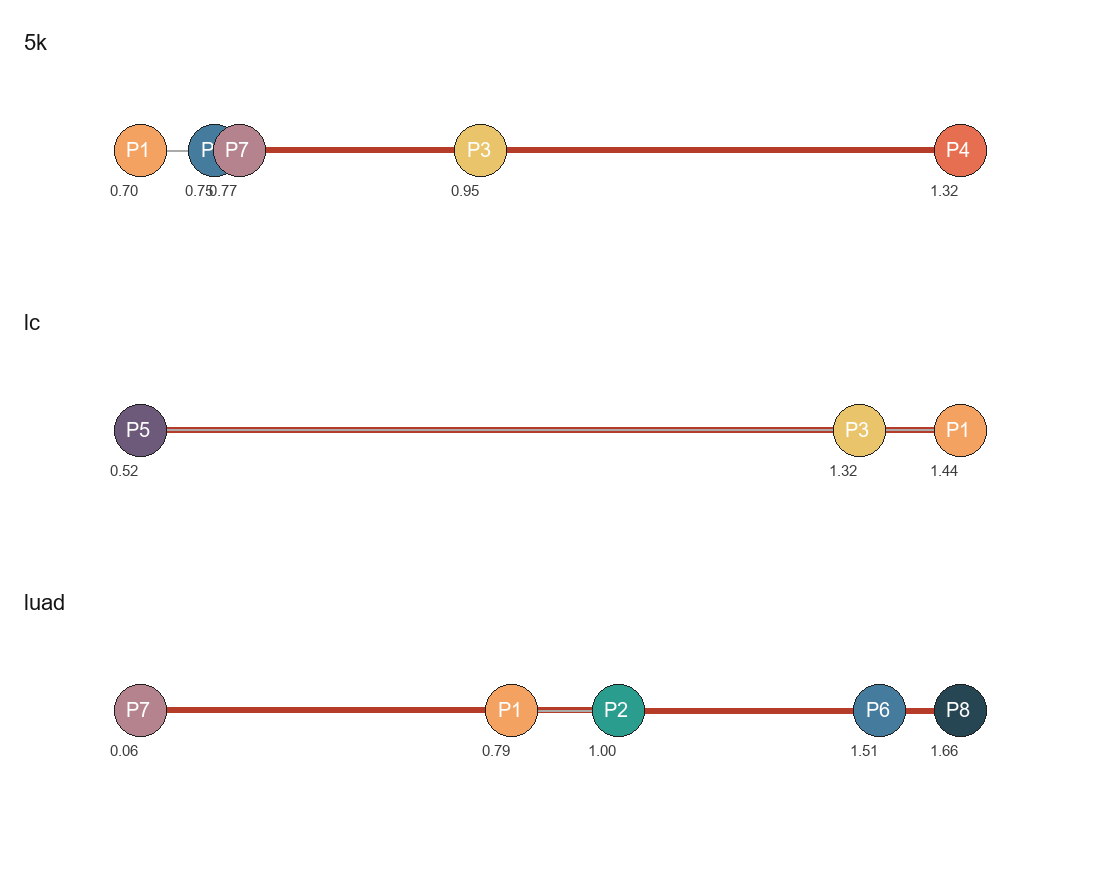
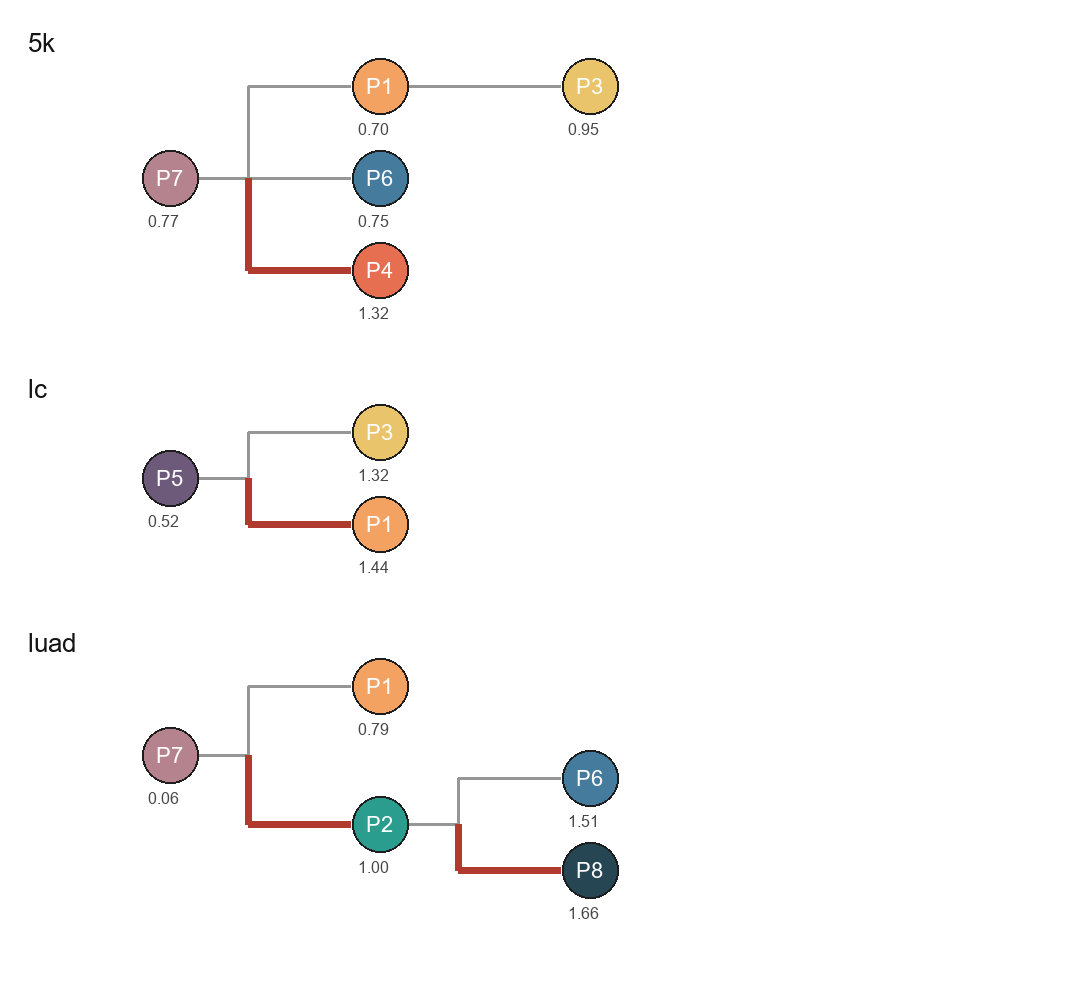
Draw a rooted evolutionary tree for each slice.
The red branch is the one played in the evolution video, and the three donors stay on separate trees.

diff --git a/docs/index.html b/docs/index.html
@@ -81,12 +81,13 @@
 <p>近景是把玻璃盒里的球放大。每一格是该模式这块组织里半径最大的一颗细胞，再加上离它最近的两颗。位置是 Xenium 质心，大小是按细胞类型给定的半径。外层是半透明的膜，里面是细胞质和核，颜色收成紫红色，用来接近合成细胞图的近景。膜上的起伏是渲染时加上的，不是从 H&amp;E 描出来的细胞边界。</p>
 <img src="figures/blender_closeup.png" alt="八个模式的细胞近景">
 
-<h2><span class="step">模式之间的顺序</span></h2>
+<h2><span class="step">模式之间的进化</span></h2>
 <p>这里没有剪接和未剪接的计数，所以没有做 RegVelo 的 RNA velocity。每张切片单独做空间拟时序，做法对应 Pham 等人 2023 年 Nature Communications 里的 pseudo-time-space：只有边相邻的小窗才能连一步，这一步的代价是小窗特征的距离。特征就是聚类用的那一份，含细胞类型比例、153 个共有基因的 16 个主成分，以及 H&amp;E 的颜色、色差和纹理。根是这张切片上分化上皮比例最高的小窗，分化上皮按正常上皮、AT1、AT2 样和纤毛细胞相加。Ren 等人 2022 年的 SpaceFlow 也是在带空间邻居的图上算伪时间。Kueckelhaus 等人 2024 年的 SPATA2 沿空间路径读表达变化；这里基因表达只汇总到模式，所以下面的数字是模式之间的差。SpaTrack（Cell Systems 2025）把表达距离和物理距离一起放进转移代价。三张切片各一个供体，没有接成一条轨迹。</p>
-<p>5k 的根在 P7。伪时间最远、并且和它直接相邻的是 P4，主路径是 P7 → P4。EPCAM 从 2.06 降到 0.89，PECAM1 从 0.70 升到 2.18。P6 和 P1 也与它们有大量相邻小窗，留在主路径旁边。lc 上没有 P7，根落到 P5，主路径是 P5 → P1。EPCAM 从 1.84 升到 2.96，UBE2C 从 0.16 升到 0.25。P3 是这张片子的主体，和这两端都相邻。luad 的根是少量 P7 小窗，主路径是 P7 → P2 → P8。到 P2 时 EPCAM 到 4.32、MKI67 到 0.30；到 P8 时 PECAM1 到 4.03，上皮标记回落。这些是同一张切片里的相似顺序，不是一个病人体内测到的谱系。</p>
-<img src="figures/trajectory.png" alt="三张切片上的伪时间">
+<p>进化图按切片分开画。根是这张切片上分化上皮比例最高的小窗所在的模式。两个模式至少有 3 个相邻小窗才连边，每个模式挂到特征距离更短的上游。节点下的数字是伪时间。红枝通向伪时间最远的模式，视频播的就是这一支。</p>
+<p>5k 上 P7 分出 P1、P6 和 P4，视频是 P7 → P4。这一支 EPCAM 从 2.06 降到 0.89，PECAM1 从 0.70 升到 2.18。P1 再连到只有 1 个小窗的 P3。lc 上没有 P7，根是 P5，分出 P3 和 P1，视频是 P5 → P1。EPCAM 从 1.84 升到 2.96，UBE2C 从 0.16 升到 0.25。P3 是这张片子里细胞最多的模式。luad 上 P7 分出 P1 和 P2，P2 再分出 P6 和 P8，视频是 P7 → P2 → P8。到 P2 时 EPCAM 到 4.32、MKI67 到 0.30；到 P8 时 PECAM1 到 4.03。三张切片各来自一个供体。这是同一张切片里的相似顺序，不是一个病人体内测到的谱系。</p>
+<img src="figures/trajectory.png" alt="三张切片的进化树">
 <video src="figures/evolution.mp4" controls playsinline poster="figures/trajectory.png"></video>
-<p>视频按 5k、lc、luad 的顺序播放。玻璃盒里的细胞从一块组织的质心变到下一块，颜色和大小跟着细胞类型变。深度放大 4 倍。用的是 EEVEE。这是路径的可视化，细胞没有跨模式追踪。</p>
+<p>视频按 5k、lc、luad 播放红枝。玻璃盒里的细胞从一块组织的质心变到下一块，颜色和大小跟着细胞类型变。深度放大 4 倍。用的是 EEVEE。这是路径的可视化，细胞没有跨模式追踪。</p>
 
 <h2><span class="step">6. 每张切片的模式组成</span></h2>
 <p>一张切片的向量是各个模式所占的细胞比例。下表是这次运行的结果。三张切片来自三个公开实验、各一个供体，切片之间的相关只能描述这三张片子，不能当成患者分型。</p>

diff --git a/scripts/trajectory.py b/scripts/trajectory.py
@@ -97,41 +97,91 @@ def _expression() -> tuple[dict[str, dict[str, float]], list[str]]:
     return table, genes
 
 
+def _children(graph: dict[str, list[tuple[str, float]]], root: str, pseudotime: dict[str, float]) -> dict[str, list[str]]:
+    distance = {root: 0.0}
+    previous = {root: ""}
+    pending = set(graph)
+    while pending:
+        node = min(pending, key=lambda name: distance.get(name, 1e18))
+        if node not in distance:
+            break
+        pending.remove(node)
+        for nxt, weight in graph[node]:
+            cand = distance[node] + weight
+            if cand < distance.get(nxt, 1e18):
+                distance[nxt] = cand
+                previous[nxt] = node
+    children: dict[str, list[str]] = defaultdict(list)
+    for node, parent in previous.items():
+        if parent:
+            children[parent].append(node)
+    for parent in children:
+        children[parent].sort(key=lambda name: pseudotime.get(name, 0.0))
+    return children
+
+
+def _leaves(children: dict[str, list[str]], root: str) -> int:
+    kids = children.get(root, [])
+    if not kids:
+        return 1
+    return sum(_leaves(children, kid) for kid in kids)
+
+
+def _place(node: str, children: dict[str, list[str]], depth: int, cursor: list[int], pos: dict[str, tuple[float, float]]) -> None:
+    kids = children.get(node, [])
+    if not kids:
+        pos[node] = (float(depth), float(cursor[0]))
+        cursor[0] += 1
+        return
+    for kid in kids:
+        _place(kid, children, depth + 1, cursor, pos)
+    pos[node] = (float(depth), sum(pos[kid][1] for kid in kids) / len(kids))
+
+
 def _draw(slices: list[dict], out: Path) -> None:
-    width, height = 1100, 280 * len(slices) + 40
-    canvas = Image.new("RGB", (width, height), (255, 255, 255))
+    title = _font(26)
+    label = _font(22)
+    small = _font(16)
+    panels = []
+    for item in slices:
+        pos: dict[str, tuple[float, float]] = {}
+        _place(item["root_window"]["pattern"], item["children"], 0, [0], pos)
+        panels.append((item, pos, _leaves(item["children"], item["root_window"]["pattern"])))
+    height = 36 + sum(70 + max(leaves, 1) * 92 for _item, _pos, leaves in panels)
+    canvas = Image.new("RGB", (1080, height), (255, 255, 255))
     draw = ImageDraw.Draw(canvas)
-    title = _font(22)
-    label = _font(20)
-    small = _font(15)
-    for row, item in enumerate(slices):
-        top = 30 + row * 280
-        draw.text((24, top), item["slice"], fill=(20, 20, 20), font=title)
-        nodes = item["patterns"]
-        if len(nodes) == 1:
-            positions = {nodes[0]["pattern"]: (180, top + 120)}
-        else:
-            times = [node["pseudotime"] for node in nodes]
-            span = max(times) - min(times) or 1.0
-            positions = {}
-            for node in nodes:
-                x = 140 + (node["pseudotime"] - min(times)) / span * 820
-                positions[node["pattern"]] = (x, top + 120)
-        path_edges = set()
-        for left, right in zip(item["main_path"], item["main_path"][1:]):
-            path_edges.add(tuple(sorted((left, right))))
-        for edge in item["edges"]:
-            a = positions[edge["left"]]
-            b = positions[edge["right"]]
-            key = tuple(sorted((edge["left"], edge["right"])))
-            color = (180, 60, 40) if key in path_edges else (170, 170, 170)
-            draw.line([a, b], fill=color, width=6 if key in path_edges else 2)
-        for node in nodes:
-            x, y = positions[node["pattern"]]
-            color = COLORS[node["pattern"]]
-            draw.ellipse((x - 26, y - 26, x + 26, y + 26), fill=color, outline=(30, 30, 30))
-            draw.text((x - 14, y - 12), node["pattern"], fill=(255, 255, 255), font=label)
-            draw.text((x - 30, y + 32), f"{node['pseudotime']:.2f}", fill=(60, 60, 60), font=small)
+    top = 28
+    trunk = {(left, right) for item, _pos, _leaves in panels for left, right in zip(item["main_path"], item["main_path"][1:])}
+    for item, pos, leaves in panels:
+        draw.text((28, top), item["slice"], fill=(20, 20, 20), font=title)
+        origin_y = top + 58
+        points = {}
+        for name, (depth, row) in pos.items():
+            points[name] = (170 + depth * 210, origin_y + row * 92)
+        root = item["root_window"]["pattern"]
+        for parent, kids in item["children"].items():
+            if not kids:
+                continue
+            px, py = points[parent]
+            fork = px + 78
+            child_y = [points[kid][1] for kid in kids]
+            draw.line([(px + 28, py), (fork, py)], fill=(150, 150, 150), width=3)
+            if len(kids) > 1:
+                draw.line([(fork, min(child_y)), (fork, max(child_y))], fill=(150, 150, 150), width=3)
+            for kid in kids:
+                kx, ky = points[kid]
+                color = (176, 58, 46) if (parent, kid) in trunk else (150, 150, 150)
+                width = 7 if (parent, kid) in trunk else 3
+                draw.line([(fork, ky), (kx - 30, ky)], fill=color, width=width)
+                if len(kids) > 1:
+                    draw.line([(fork, py), (fork, ky)], fill=color, width=width)
+        for name, (x, y) in points.items():
+            color = COLORS[name]
+            draw.ellipse((x - 28, y - 28, x + 28, y + 28), fill=color, outline=(30, 30, 30), width=2)
+            draw.text((x - 14, y - 12), name, fill=(255, 255, 255), font=label)
+            when = next(row["pseudotime"] for row in item["patterns"] if row["pattern"] == name)
+            draw.text((x - 22, y + 34), f"{when:.2f}", fill=(70, 70, 70), font=small)
+        top += 70 + max(leaves, 1) * 92
     canvas.save(out)
 
 
@@ -202,12 +252,11 @@ def main() -> None:
             graph[left].append((right, float(np.median(weights))))
             graph[right].append((left, float(np.median(weights))))
         root_pattern = rows[root_local]["pattern"]
-        reachable = [item["pattern"] for item in pattern_rows if item["pattern"] in graph or item["pattern"] == root_pattern]
-        tip = max(reachable, key=lambda name: next(item["pseudotime"] for item in pattern_rows if item["pattern"] == name))
-        for item in pattern_rows:
-            if item["pattern"] not in graph and item["pattern"] != root_pattern:
-                graph[item["pattern"]] = []
-            graph.setdefault(item["pattern"], [])
+        graph.setdefault(root_pattern, [])
+        pseudotime = {item["pattern"]: item["pseudotime"] for item in pattern_rows}
+        children = _children(graph, root_pattern, pseudotime)
+        reachable = [root_pattern, *pseudotime]
+        tip = max(pseudotime, key=lambda name: pseudotime[name])
         order = _path(graph, root_pattern, tip)
         gradient = []
         for gene in GENES:
@@ -225,6 +274,7 @@ def main() -> None:
             "windows": len(rows),
             "patterns": pattern_rows,
             "edges": edges,
+            "children": {parent: kids for parent, kids in children.items()},
             "main_path": order,
             "expression_along_path": gradient,
         })

diff --git a/src/annotile/report.py b/src/annotile/report.py
@@ -202,12 +202,13 @@ def render(summary: dict) -> str:
 <p>近景是把玻璃盒里的球放大。每一格是该模式这块组织里半径最大的一颗细胞，再加上离它最近的两颗。位置是 Xenium 质心，大小是按细胞类型给定的半径。外层是半透明的膜，里面是细胞质和核，颜色收成紫红色，用来接近合成细胞图的近景。膜上的起伏是渲染时加上的，不是从 H&amp;E 描出来的细胞边界。</p>
 <img src="figures/blender_closeup.png" alt="八个模式的细胞近景">
 
-<h2><span class="step">模式之间的顺序</span></h2>
+<h2><span class="step">模式之间的进化</span></h2>
 <p>这里没有剪接和未剪接的计数，所以没有做 RegVelo 的 RNA velocity。每张切片单独做空间拟时序，做法对应 Pham 等人 2023 年 Nature Communications 里的 pseudo-time-space：只有边相邻的小窗才能连一步，这一步的代价是小窗特征的距离。特征就是聚类用的那一份，含细胞类型比例、153 个共有基因的 16 个主成分，以及 H&amp;E 的颜色、色差和纹理。根是这张切片上分化上皮比例最高的小窗，分化上皮按正常上皮、AT1、AT2 样和纤毛细胞相加。Ren 等人 2022 年的 SpaceFlow 也是在带空间邻居的图上算伪时间。Kueckelhaus 等人 2024 年的 SPATA2 沿空间路径读表达变化；这里基因表达只汇总到模式，所以下面的数字是模式之间的差。SpaTrack（Cell Systems 2025）把表达距离和物理距离一起放进转移代价。三张切片各一个供体，没有接成一条轨迹。</p>
-<p>5k 的根在 P7。伪时间最远、并且和它直接相邻的是 P4，主路径是 P7 → P4。EPCAM 从 2.06 降到 0.89，PECAM1 从 0.70 升到 2.18。P6 和 P1 也与它们有大量相邻小窗，留在主路径旁边。lc 上没有 P7，根落到 P5，主路径是 P5 → P1。EPCAM 从 1.84 升到 2.96，UBE2C 从 0.16 升到 0.25。P3 是这张片子的主体，和这两端都相邻。luad 的根是少量 P7 小窗，主路径是 P7 → P2 → P8。到 P2 时 EPCAM 到 4.32、MKI67 到 0.30；到 P8 时 PECAM1 到 4.03，上皮标记回落。这些是同一张切片里的相似顺序，不是一个病人体内测到的谱系。</p>
-<img src="figures/trajectory.png" alt="三张切片上的伪时间">
+<p>进化图按切片分开画。根是这张切片上分化上皮比例最高的小窗所在的模式。两个模式至少有 3 个相邻小窗才连边，每个模式挂到特征距离更短的上游。节点下的数字是伪时间。红枝通向伪时间最远的模式，视频播的就是这一支。</p>
+<p>5k 上 P7 分出 P1、P6 和 P4，视频是 P7 → P4。这一支 EPCAM 从 2.06 降到 0.89，PECAM1 从 0.70 升到 2.18。P1 再连到只有 1 个小窗的 P3。lc 上没有 P7，根是 P5，分出 P3 和 P1，视频是 P5 → P1。EPCAM 从 1.84 升到 2.96，UBE2C 从 0.16 升到 0.25。P3 是这张片子里细胞最多的模式。luad 上 P7 分出 P1 和 P2，P2 再分出 P6 和 P8，视频是 P7 → P2 → P8。到 P2 时 EPCAM 到 4.32、MKI67 到 0.30；到 P8 时 PECAM1 到 4.03。三张切片各来自一个供体。这是同一张切片里的相似顺序，不是一个病人体内测到的谱系。</p>
+<img src="figures/trajectory.png" alt="三张切片的进化树">
 <video src="figures/evolution.mp4" controls playsinline poster="figures/trajectory.png"></video>
-<p>视频按 5k、lc、luad 的顺序播放。玻璃盒里的细胞从一块组织的质心变到下一块，颜色和大小跟着细胞类型变。深度放大 4 倍。用的是 EEVEE。这是路径的可视化，细胞没有跨模式追踪。</p>
+<p>视频按 5k、lc、luad 播放红枝。玻璃盒里的细胞从一块组织的质心变到下一块，颜色和大小跟着细胞类型变。深度放大 4 倍。用的是 EEVEE。这是路径的可视化，细胞没有跨模式追踪。</p>
 
 <h2><span class="step">6. 每张切片的模式组成</span></h2>
 <p>一张切片的向量是各个模式所占的细胞比例。下表是这次运行的结果。三张切片来自三个公开实验、各一个供体，切片之间的相关只能描述这三张片子，不能当成患者分型。</p>
